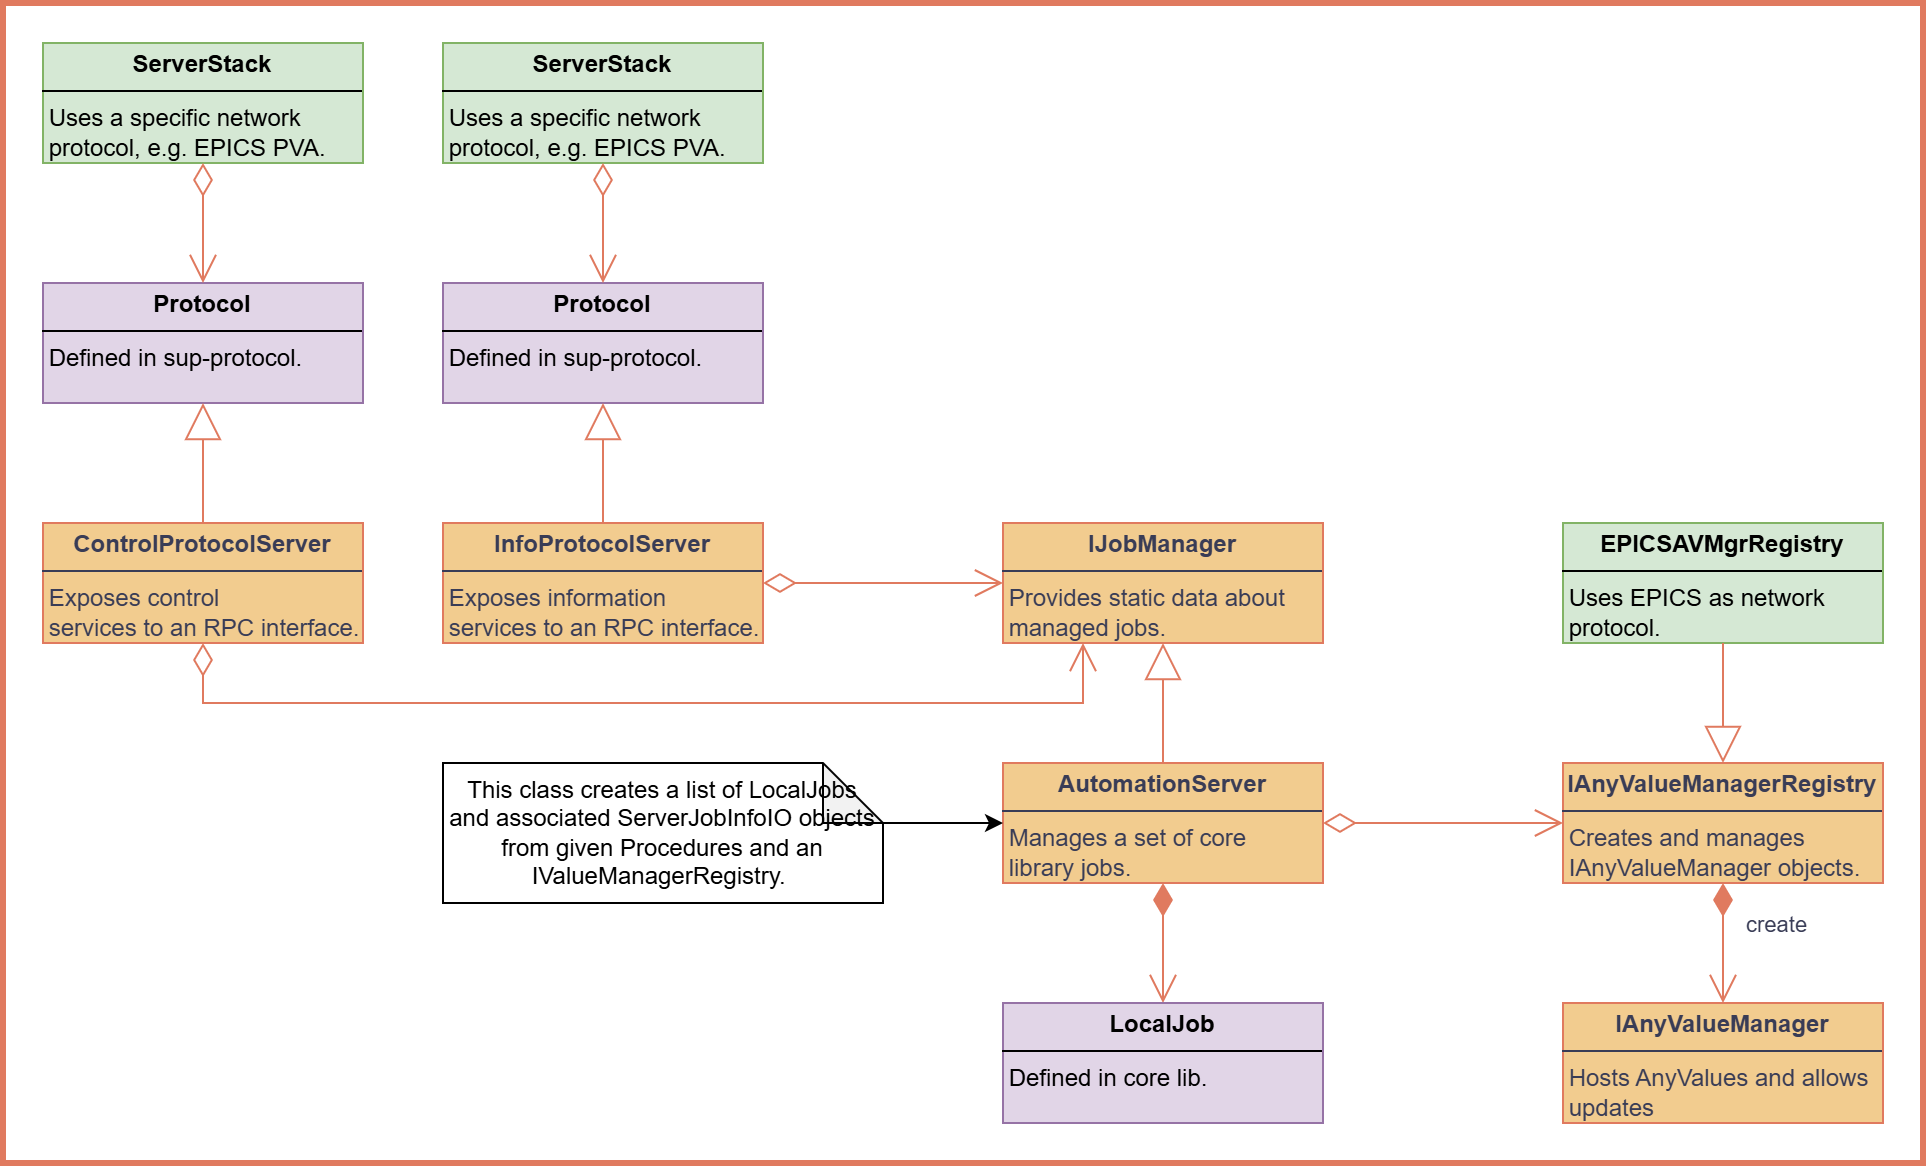
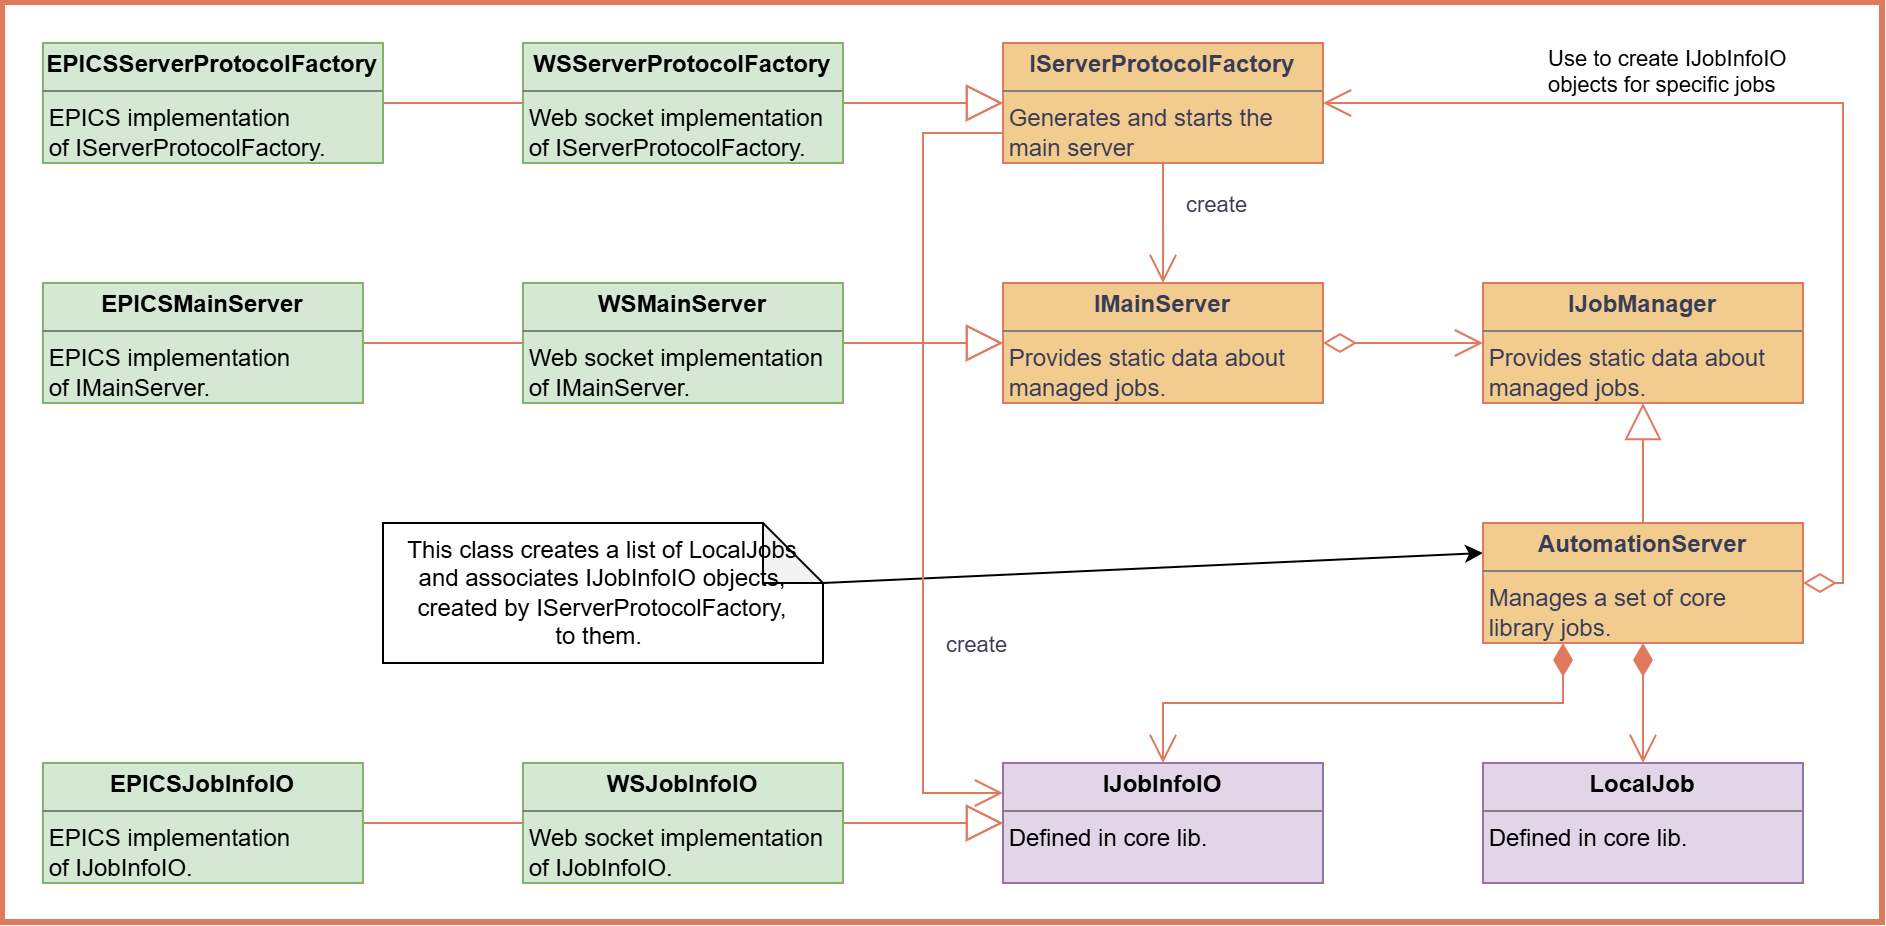
Update automation server diagram

diff --git a/test/resources/example_client.cpp b/test/resources/example_client.cpp
@@ -38,7 +38,7 @@ int main(int argc, char* argv[])
 {
   // EPICS client manager
   auto client_manager = utils::CreateEPICSClientProtocolManager(kAutoServerName);
-  auto n_jobs = GetNumberOfJobs(*client_manager);
+  auto n_jobs = client_manager->GetNumberOfJobs();
 
   // Create a client job.
   auto& my_job_info_io = GetMyJobInfoIO();
